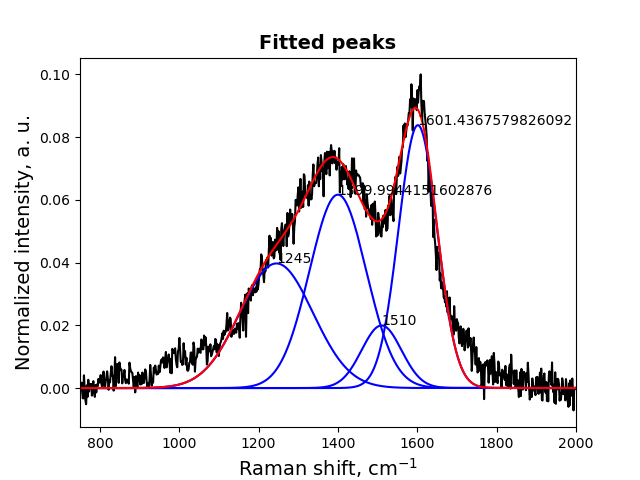
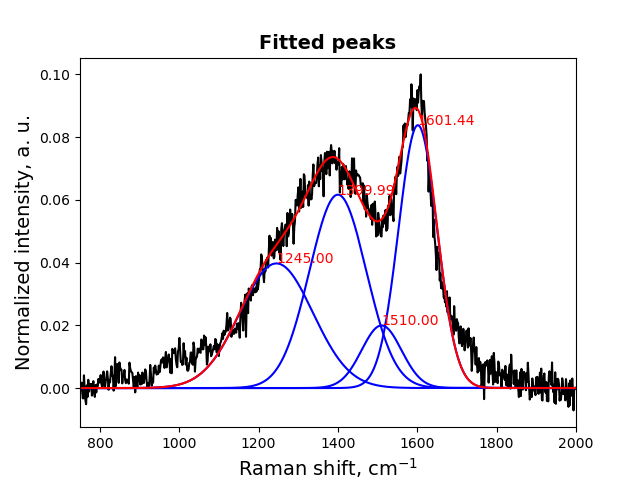
Correções

diff --git a/source/code_raman_all_files.py b/source/code_raman_all_files.py
@@ -4,6 +4,9 @@ import matplotlib.pyplot as plt
 import rampy as rp
 import os
 
+two_peaks = False
+results_folder = 'results_all_peaks'
+
 def residual_l(pars, x, data=None, eps=None): #Function definition
     # unpack parameters, extract .value attribute for each parameter
     n = len(pars)//3
@@ -117,7 +120,11 @@ for ind_arq in range(len(arqs)):
         # we release the positions but contrain the FWMH and amplitude of all peaks 
         n = len(params)//3
         lf = ['f'+str(i) for i in range(1,n+1)]
-        for i in lf[1::2]:
+        if two_peaks:
+            freq_free = lf[1::2]
+        else:
+            freq_free = lf
+        for i in freq_free:
             params[i].vary = True
 
         #result2 = lmfit.minimize(residual_l, params, method = algo, args=(x_fit, y_fit[:,0])) # fit data with leastsq model from scipy
@@ -138,8 +145,8 @@ for ind_arq in range(len(arqs)):
         plt.ylabel("Normalized intensity, a. u.", fontsize = 14)
         plt.title("Fitted peaks",fontsize = 14,fontweight = "bold")
         for i in range(n):
-            plt.annotate('{}'.format(r_p['f'+str(i+1)]),(r_p['f'+str(i+1)],r_p['a'+str(i+1)]))
-        plt.savefig('../results_two_peaks/'+file[:-3]+'png')
+            plt.annotate('{:.2f}'.format(r_p['f'+str(i+1)]),(r_p['f'+str(i+1)],r_p['a'+str(i+1)]),color='red')
+        plt.savefig('../'+results_folder+'/'+file[:-3]+'png')
 
         res = dict(result2.params.valuesdict())
         la = ['a'+str(i) for i in range(1,n+1)]
@@ -166,7 +173,7 @@ l4 = [d['l4'] for d in Data]
 d = {'a1':a1,'a2':a2,'a3':a3,'a4':a4,'f1':f1,'f2':f2,'f3':f3,'f4':f4,'l1':l1,'l2':l2,'l3':l3,'l4':l4,'arquivo':amostras}
 print(d)
 tabela = pd.DataFrame(d)
-tabela.to_csv('../results_two_peaks/picos_ajustados.csv')
+tabela.to_csv('../'+results_folder+'/picos_ajustados.csv')
 
 from sklearn.decomposition import PCA
 dd = tabela.iloc[:,:-1].values
@@ -191,4 +198,4 @@ for i in range(pc.shape[0]):
 plt.xlabel(f'PC1 ({100*pcvars[0]:.3f}%)')        
 plt.ylabel(f'PC2 ({100*pcvars[1]:.3f}%)')
 plt.title('PCA')
-plt.savefig('../results_all_peaks/pca_raman.png')
+plt.savefig('../'+results_folder+'/pca_raman.png')
